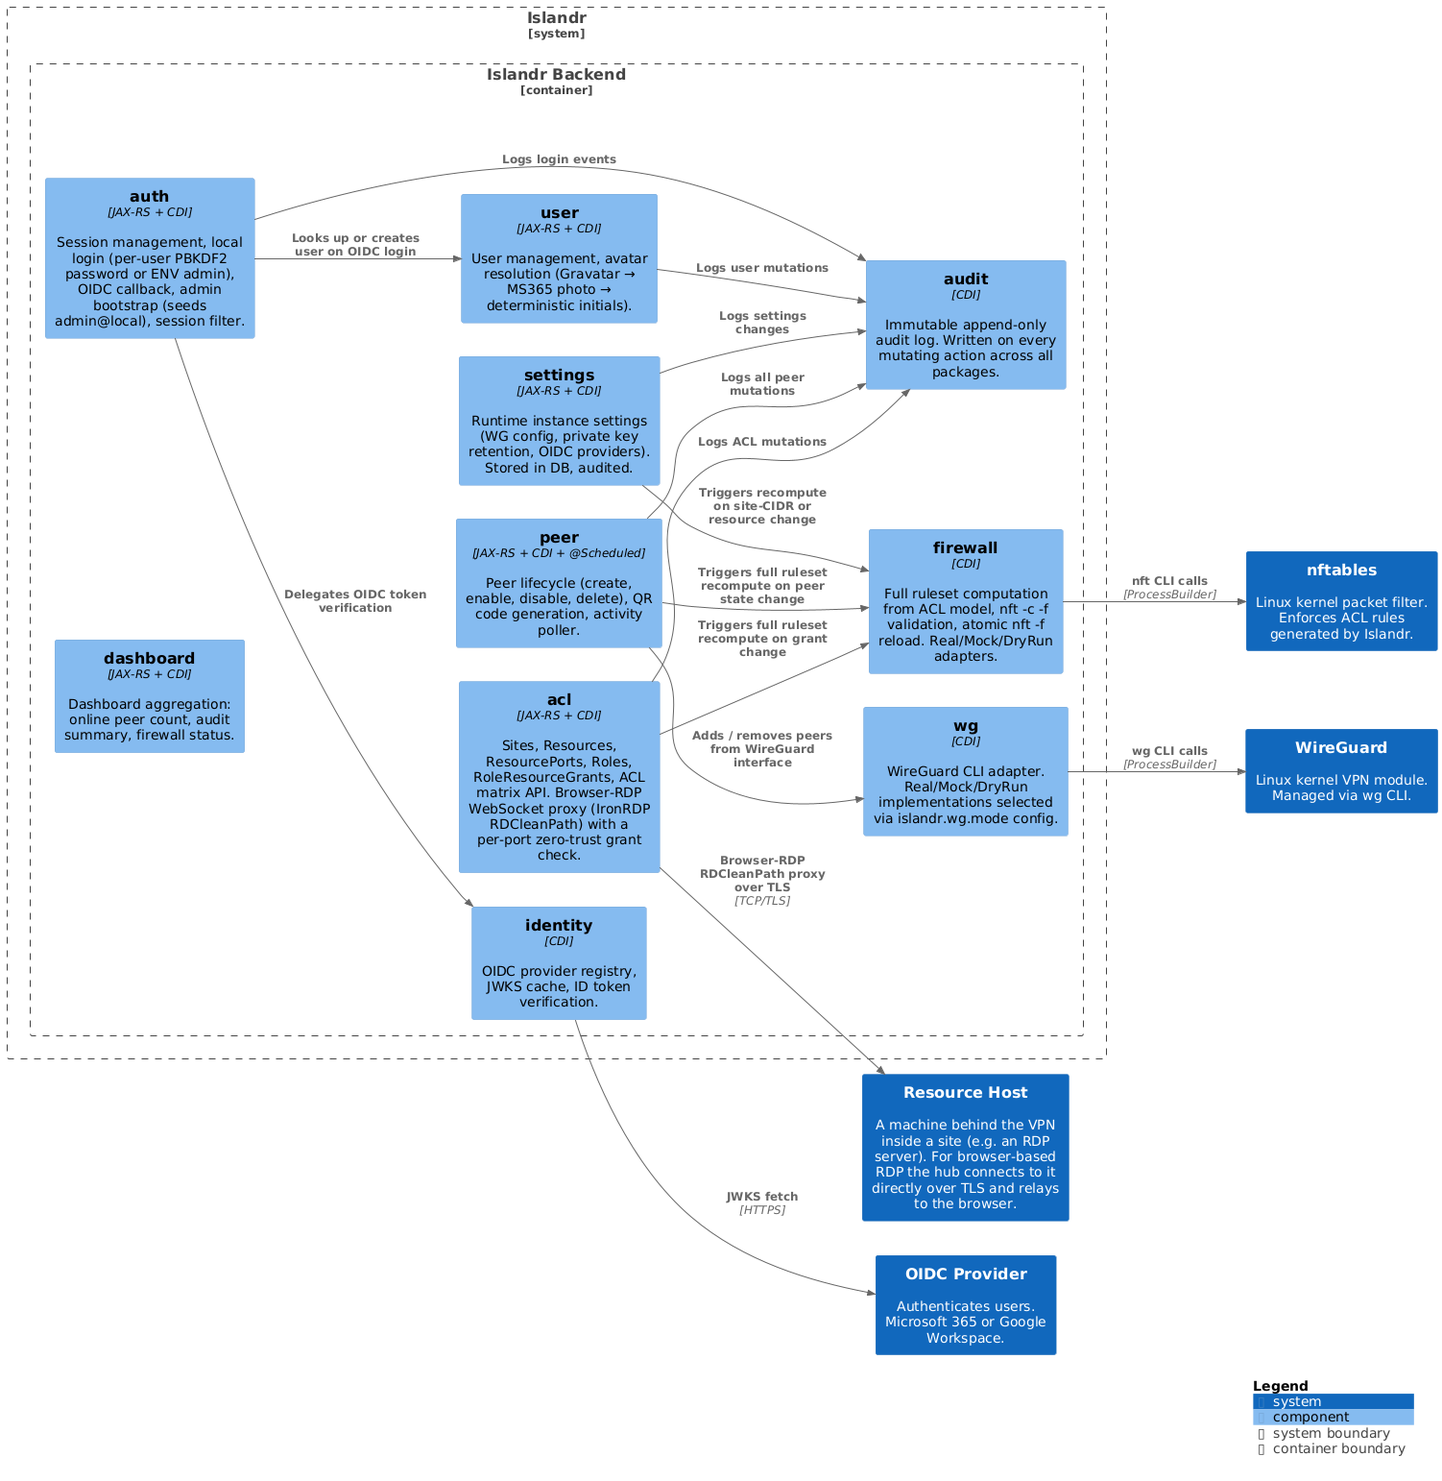
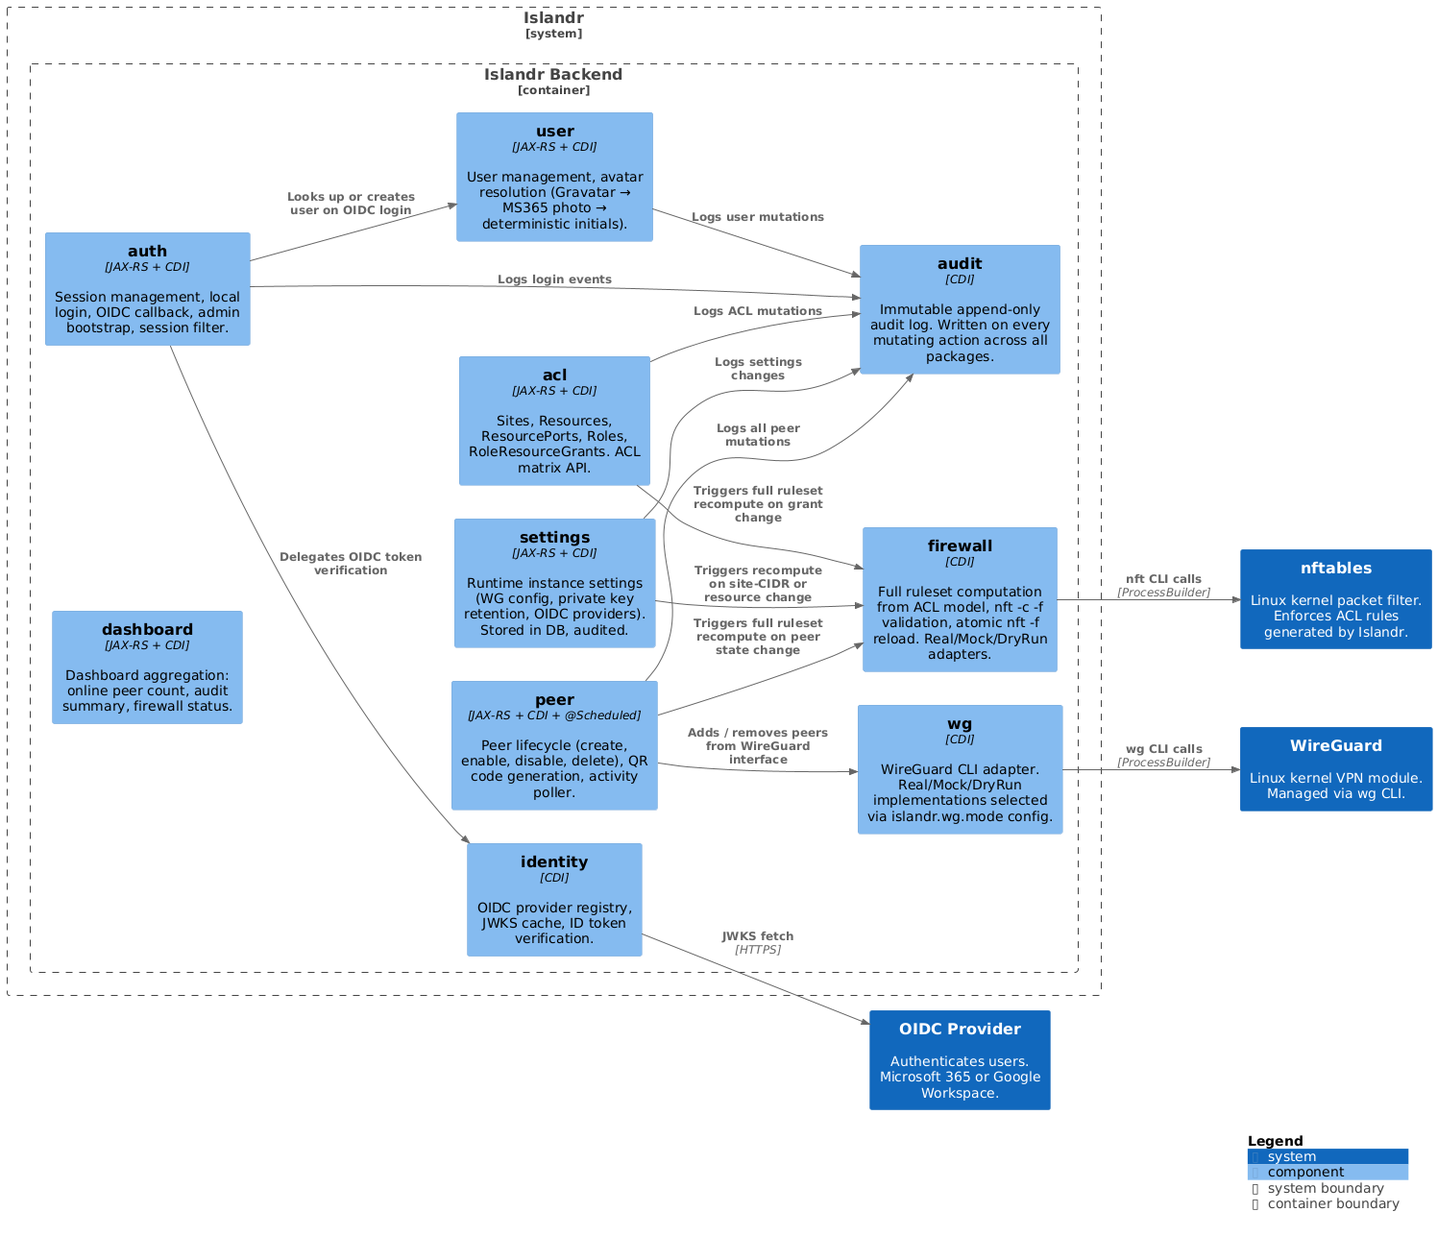
feat(rdp): browser-RDP end-to-end, autofill + reveal; scope C4 deployment views (0.10.0)
Squash of release/0.10.0 into main for the 0.10.0 release.

- rc.8: browser-RDP end-to-end, password-manager autofill, password reveal
- docs(arch): scope C4 deployment views to islandr so the C4 site renders them

diff --git a/src/main/resources/META-INF/resources/js/views/MyAccessView.js b/src/main/resources/META-INF/resources/js/views/MyAccessView.js
@@ -54,6 +54,7 @@ export default defineComponent({
       ironRdpEnabled: false,   // gates the "open in browser" button; comes from /my-resources
       rdpDialog: null,
       rdpCreds: { username: "", password: "", domain: "" },
+      rdpShowPassword: false,
       rdpOverlay: null,
       rdpModule: null,
       rdpActiveSession: null,
@@ -412,9 +413,17 @@ export default defineComponent({
 
     openRdpDialog(resource, port) {
       this.rdpDialog = { resource, port };
+      this.rdpShowPassword = false;
       this.rdpError = "";
     },
     closeRdpDialog() { this.rdpDialog = null; },
+
+    // A per-resource URI the user can store in their password manager. Built on the
+    // real islandr origin (which KeePassXC / Bitwarden match on) with the resource
+    // name in the route, so each RDP resource maps to a distinct, named vault entry.
+    rdpMatchUri(resource) {
+      return window.location.origin + "/#/my-access/" + encodeURIComponent(resource.name);
+    },
 
     async connectRdpInBrowser() {
       const { resource, port } = this.rdpDialog;
@@ -446,9 +455,20 @@ export default defineComponent({
         const { SessionBuilder, DesktopSize } = this.rdpModule;
         let b = new SessionBuilder()
           .proxyAddress(proxyUrl)
+          // The WASM client requires a non-empty auth token (RDCleanPath / Devolutions
+          // Gateway convention — normally a JWT). Our proxy does NOT use it: it
+          // authenticates via the session cookie on the WS handshake plus the per-port
+          // grant check (RdpProxyEndpoint). A placeholder just satisfies the client so
+          // connect() proceeds instead of throwing "auth_token missing".
+          .authToken("islandr")
           .destination(`${resource.ip}:${port.port}`)
           .renderCanvas(canvas)
-          .desktopSize(new DesktopSize(w, h));
+          .desktopSize(new DesktopSize(w, h))
+          // connect() requires a cursor-style callback + its context. The WASM hands
+          // us a ready-to-use CSS cursor value; apply it to the canvas. Context is the
+          // canvas itself (matches the IronRDP web reference client).
+          .setCursorStyleCallback((style) => { canvas.style.cursor = style || "default"; })
+          .setCursorStyleCallbackContext(canvas);
 
         if (this.rdpCreds.username) b = b.username(this.rdpCreds.username);
         if (this.rdpCreds.password) b = b.password(this.rdpCreds.password);
@@ -463,20 +483,80 @@ export default defineComponent({
 
         if (this.rdpOverlay) this.rdpStatus = "disconnected";
       } catch (e) {
+        // Surface the real error + stack in the browser console — the failure is
+        // otherwise invisible (a connect() failure before the WebSocket opens
+        // never reaches the server log). Helps tell a client-side (WASM/canvas)
+        // failure from a proxy/handshake one.
+        const iron = this.decodeIronError(e);
+        console.error("Browser-RDP failed:", iron || e, e && e.stack);
+        // kind() alone (esp. General) is not enough — backtrace() carries the real
+        // underlying message. Log it on its own line so it is readable, uncollapsed.
+        if (iron && iron.backtrace) console.error("IronError backtrace:\n" + iron.backtrace);
         if (this.rdpOverlay) {
           const reached = this.rdpStatus === "connected";
           this.rdpStatus = "error";
-          this.rdpError = this.rdpErrorMessage(e, reached);
+          this.rdpError = this.rdpErrorMessage(e, reached, iron);
         }
       }
     },
 
-    // Turn the WASM client's thrown value into a readable message. connect()
-    // fails before the RDP session starts (reached=false) — almost always the
-    // proxy could not reach/handshake the target; the real reason is in the
-    // server log (RdpProxyEndpoint). A failure after "connected" is an in-session
-    // error. Never render a bare object as "[object Object]".
-    rdpErrorMessage(e, reached) {
+    // IronError (the WASM client's thrown type) is an opaque wasm-bindgen handle
+    // — it renders as {__wbg_ptr:…} and has no .message. But it exposes kind(),
+    // backtrace(), and rdcleanpathDetails() (HTTP status / TLS alert / WSA code).
+    // Pull those out so the real reason is visible instead of a bare pointer.
+    decodeIronError(e) {
+      if (!e || typeof e.kind !== "function") return null;
+      const KINDS = {
+        0: "Allgemeiner Fehler",
+        1: "Falsches Passwort",
+        2: "Anmeldung am Host fehlgeschlagen",
+        3: "Zugriff verweigert (Server)",
+        4: "Verbindungsaufbau fehlgeschlagen (RDCleanPath)",
+        5: "Verbindung zum Proxy fehlgeschlagen",
+        6: "Protokoll-Aushandlung fehlgeschlagen",
+      };
+      const TLS = {
+        40: "Handshake-Fehler", 42: "Ungültiges Zertifikat", 45: "Zertifikat abgelaufen",
+        48: "Unbekannte CA (selbstsigniert)", 112: "Servername nicht erkannt",
+      };
+      const WSA = {
+        10013: "Zugriff verweigert (WSAEACCES)", 10060: "Zeitüberschreitung (WSAETIMEDOUT)",
+        10061: "Verbindung abgelehnt (WSAECONNREFUSED)", 10051: "Netz nicht erreichbar (WSAENETUNREACH)",
+        10065: "Host nicht erreichbar (WSAEHOSTUNREACH)",
+      };
+      const out = {};
+      try { out.kind = e.kind(); out.kindLabel = KINDS[out.kind] || ("Kind " + out.kind); } catch {}
+      try { out.backtrace = e.backtrace(); } catch {}
+      try {
+        const d = typeof e.rdcleanpathDetails === "function" ? e.rdcleanpathDetails() : undefined;
+        if (d) {
+          if (d.httpStatusCode !== undefined) out.http = d.httpStatusCode;
+          if (d.tlsAlertCode !== undefined) { out.tlsAlert = d.tlsAlertCode; out.tlsAlertLabel = TLS[d.tlsAlertCode]; }
+          if (d.wsaErrorCode !== undefined) { out.wsa = d.wsaErrorCode; out.wsaLabel = WSA[d.wsaErrorCode]; }
+          try { d.free(); } catch {}
+        }
+      } catch {}
+      return out;
+    },
+
+    // Turn the WASM client's thrown value into a readable message. A structured
+    // IronError (iron) gives the concrete reason (kind + TLS/WSA/HTTP detail);
+    // otherwise fall back to message/toString. reached=false means connect()
+    // failed before the RDP session started. Never render "[object Object]".
+    rdpErrorMessage(e, reached, iron) {
+      if (iron && iron.kindLabel) {
+        const bits = [iron.kindLabel];
+        if (iron.tlsAlert !== undefined) bits.push("TLS-Alert " + iron.tlsAlert + (iron.tlsAlertLabel ? " (" + iron.tlsAlertLabel + ")" : ""));
+        if (iron.wsa !== undefined) bits.push("Socket-Fehler " + iron.wsa + (iron.wsaLabel ? " (" + iron.wsaLabel + ")" : ""));
+        if (iron.http !== undefined) bits.push("HTTP " + iron.http);
+        // For General (kind 0) with no coded detail, the backtrace is the only real
+        // signal — surface its first line so the user isn't left with a bare label.
+        if (iron.kind === 0 && iron.tlsAlert === undefined && iron.wsa === undefined && iron.http === undefined && iron.backtrace) {
+          const first = String(iron.backtrace).split("\n").map(s => s.trim()).filter(Boolean)[0];
+          if (first) bits.push(first);
+        }
+        return "Verbindung zum RDP-Server fehlgeschlagen: " + bits.join(" — ") + ".";
+      }
       let detail = "";
       if (e != null) {
         if (typeof e === "string") detail = e;
@@ -1048,7 +1128,7 @@ export default defineComponent({
       </div>
     </div>
     <!-- IronRDP credential dialog -->
-    <div v-if="rdpDialog" class="modal-overlay" @click.self="closeRdpDialog">
+    <div v-if="rdpDialog" class="modal-backdrop" @click.self="closeRdpDialog">
       <div class="modal" style="max-width: 400px">
         <div class="modal-header">
           <h3 style="margin:0; font-size: var(--text-md)">Im Browser öffnen</h3>
@@ -1062,20 +1142,40 @@ export default defineComponent({
           <form id="rdp-cred-form" @submit.prevent="connectRdpInBrowser">
             <div class="form-group">
               <label class="label" for="rdpUser">Benutzername</label>
-              <input id="rdpUser" class="input" v-model="rdpCreds.username"
+              <input id="rdpUser" name="username" class="input" v-model="rdpCreds.username"
                      type="text" autocomplete="username" placeholder="z.B. Administrator" />
             </div>
             <div class="form-group">
               <label class="label" for="rdpPass">Passwort</label>
-              <input id="rdpPass" class="input" v-model="rdpCreds.password"
-                     type="password" autocomplete="current-password" />
+              <div class="input-reveal">
+                <input id="rdpPass" name="password" class="input" v-model="rdpCreds.password"
+                       :type="rdpShowPassword ? 'text' : 'password'" autocomplete="current-password" />
+                <button type="button" class="input-reveal-btn" @click="rdpShowPassword = !rdpShowPassword"
+                        :aria-label="rdpShowPassword ? 'Passwort verbergen' : 'Passwort anzeigen'"
+                        :title="rdpShowPassword ? 'Passwort verbergen' : 'Passwort anzeigen'">
+                  <Icon :name="rdpShowPassword ? 'eye-off' : 'eye'" :size="16" />
+                </button>
+              </div>
             </div>
             <div class="form-group">
               <label class="label" for="rdpDomain">Domäne <span class="muted">(optional)</span></label>
-              <input id="rdpDomain" class="input" v-model="rdpCreds.domain"
+              <input id="rdpDomain" name="domain" class="input" v-model="rdpCreds.domain"
                      type="text" autocomplete="off" placeholder="z.B. FIRMA" />
             </div>
           </form>
+          <!-- Copyable per-resource URI for the user's password manager (KeePassXC /
+               Bitwarden). Autofill still keys on the islandr origin; this URI carries
+               the resource name so the right vault entry is easy to find/organise. -->
+          <div class="field" style="margin-top: var(--space-3)">
+            <label class="label muted" style="font-size: var(--text-xs)">URI für Passwort-Manager (KeePassXC / Bitwarden)</label>
+            <div style="display: flex; gap: var(--space-2); align-items: center">
+              <code class="mono" style="flex: 1; font-size: var(--text-xs); overflow-x: auto; white-space: nowrap">{{ rdpMatchUri(rdpDialog.resource) }}</code>
+              <button type="button" class="btn btn-ghost btn-sm"
+                      @click="copyCmd(rdpMatchUri(rdpDialog.resource), 'rdpuri')">
+                {{ copiedCmd === 'rdpuri' ? 'Kopiert' : 'Kopieren' }}
+              </button>
+            </div>
+          </div>
         </div>
         <div class="modal-footer">
           <button class="btn btn-ghost" @click="closeRdpDialog">Abbrechen</button>

diff --git a/src/main/resources/META-INF/resources/js/views/LoginView.js b/src/main/resources/META-INF/resources/js/views/LoginView.js
@@ -1,6 +1,7 @@
 import { defineComponent, ref } from "vue";
 import { auth } from "/js/app.js";
 import { t, setLocale, locale } from "/js/i18n.js";
+import { Icon } from "/js/Icons.js";
 
 // Login-Card mit Provider-Hierarchie:
 //   1. Aktivierter OIDC-Provider (max. einer) erscheint als prominenter Primär-Button oben.
@@ -11,10 +12,12 @@ import { t, setLocale, locale } from "/js/i18n.js";
 //      (das ist dann der einzige Weg rein).
 export default defineComponent({
   name: "LoginView",
+  components: { Icon },
   data() {
     return {
       username: "admin",
       password: "",
+      showPassword: false,
       loading: false,
       error: null,
       providers: { microsoft: false, google: false },
@@ -158,14 +161,21 @@ export default defineComponent({
 
             <div class="field">
               <label for="username">{{ t('login.user') }}</label>
-              <input id="username" class="input" type="text" v-model="username"
+              <input id="username" name="username" class="input" type="text" v-model="username"
                      autocomplete="username" required />
             </div>
 
             <div class="field">
               <label for="password">{{ t('login.password') }}</label>
-              <input id="password" class="input" type="password" v-model="password"
-                     autocomplete="current-password" required />
+              <div class="input-reveal">
+                <input id="password" name="password" class="input" :type="showPassword ? 'text' : 'password'"
+                       v-model="password" autocomplete="current-password" required />
+                <button type="button" class="input-reveal-btn" @click="showPassword = !showPassword"
+                        :aria-label="showPassword ? 'Passwort verbergen' : 'Passwort anzeigen'"
+                        :title="showPassword ? 'Passwort verbergen' : 'Passwort anzeigen'">
+                  <Icon :name="showPassword ? 'eye-off' : 'eye'" :size="16" />
+                </button>
+              </div>
             </div>
 
             <button type="submit"

diff --git a/src/main/resources/META-INF/resources/js/Icons.js b/src/main/resources/META-INF/resources/js/Icons.js
@@ -326,6 +326,20 @@ export const PATHS = {
     '<path d="M12.22 2h-.44a2 2 0 0 0-2 2v.18a2 2 0 0 1-1 1.73l-.43.25a2 2 0 0 1-2 0l-.15-.08a2 2 0 0 0-2.73.73l-.22.38a2 2 0 0 0 .73 2.73l.15.1a2 2 0 0 1 1 1.72v.51a2 2 0 0 1-1 1.74l-.15.09a2 2 0 0 0-.73 2.73l.22.38a2 2 0 0 0 2.73.73l.15-.08a2 2 0 0 1 2 0l.43.25a2 2 0 0 1 1 1.73V20a2 2 0 0 0 2 2h.44a2 2 0 0 0 2-2v-.18a2 2 0 0 1 1-1.73l.43-.25a2 2 0 0 1 2 0l.15.08a2 2 0 0 0 2.73-.73l.22-.39a2 2 0 0 0-.73-2.73l-.15-.08a2 2 0 0 1-1-1.74v-.5a2 2 0 0 1 1-1.74l.15-.09a2 2 0 0 0 .73-2.73l-.22-.38a2 2 0 0 0-2.73-.73l-.15.08a2 2 0 0 1-2 0l-.43-.25a2 2 0 0 1-1-1.73V4a2 2 0 0 0-2-2z"/>',
     '<circle cx="12" cy="12" r="3"/>',
   ],
+
+  // eye — Passwort im Klartext anzeigen (Lucide MIT)
+  eye: [
+    '<path d="M2 12s3-7 10-7 10 7 10 7-3 7-10 7-10-7-10-7Z"/>',
+    '<circle cx="12" cy="12" r="3"/>',
+  ],
+
+  // eye-off — Passwort wieder maskieren (Lucide MIT)
+  "eye-off": [
+    '<path d="M9.88 9.88a3 3 0 1 0 4.24 4.24"/>',
+    '<path d="M10.73 5.08A10.43 10.43 0 0 1 12 5c7 0 10 7 10 7a13.16 13.16 0 0 1-1.67 2.68"/>',
+    '<path d="M6.61 6.61A13.526 13.526 0 0 0 2 12s3 7 10 7a9.74 9.74 0 0 0 5.39-1.61"/>',
+    '<line x1="2" x2="22" y1="2" y2="22"/>',
+  ],
 };
 
 export const Icon = defineComponent({

diff --git a/src/main/resources/META-INF/resources/css/components.css b/src/main/resources/META-INF/resources/css/components.css
@@ -64,6 +64,21 @@
 .input.is-invalid { border-color: var(--danger-solid); }
 .input.is-invalid:focus { box-shadow: 0 0 0 3px var(--danger-bg); }
 
+/* Password field with a reveal toggle. The eye button sits inside the input on
+   the right; the input reserves padding so text never runs under it. */
+.input-reveal { position: relative; display: block; }
+.input-reveal .input { width: 100%; padding-right: calc(var(--space-3) + 26px); }
+.input-reveal-btn {
+  position: absolute; right: 6px; top: 50%; transform: translateY(-50%);
+  display: inline-flex; align-items: center; justify-content: center;
+  width: 28px; height: 28px; padding: 0;
+  background: none; border: none; border-radius: var(--radius-sm);
+  color: var(--fg3); cursor: pointer;
+  transition: color var(--dur) var(--ease-standard), background var(--dur) var(--ease-standard);
+}
+.input-reveal-btn:hover { color: var(--fg1); background: var(--surface-3); }
+.input-reveal-btn:focus-visible { outline: none; box-shadow: 0 0 0 3px var(--accent-soft-bg); }
+
 /* ---- Toggle -------------------------------------------------------------- */
 .toggle { position: relative; display: inline-flex; width: 38px; height: 22px; flex: none; }
 .toggle input { opacity: 0; width: 0; height: 0; }

diff --git a/src/main/resources/META-INF/resources/css/app.css b/src/main/resources/META-INF/resources/css/app.css
@@ -1699,7 +1699,11 @@ body {
   flex: 1;
   width: 100%;
   display: block;
-  cursor: none;
+  /* Baseline cursor. IronRDP delivers the remote pointer via the WASM
+     setCursorStyleCallback (which sets an inline cursor on this element), not by
+     compositing it into the framebuffer. `default` here means an invalid/empty
+     callback value still leaves a visible cursor instead of hiding it. */
+  cursor: default;
   outline: none;
 }
 

diff --git a/README.md b/README.md
@@ -247,7 +247,7 @@ islandr/
 - Admin toggle to disable self-service peer creation (stricter environments)
 - Protocol quicklaunch on granted resources:
   - **HTTP/HTTPS** — opens directly in the browser; optional per-port path prefix (e.g. `/admin`) so multi-app hosts work without a dedicated port per app
-  - **RDP** — `.rdp` file download (Windows/macOS) + `rdp://` URI (Linux/Remmina) + **browser-based RDP** via IronRDP WASM (no client install); `web-only` access mode blocks direct WireGuard port access so users are forced through the browser proxy; per-port clipboard and file-transfer toggles; global enable toggle in Settings
+  - **RDP** — `.rdp` file download (Windows/macOS) + `rdp://` URI (Linux/Remmina) + **browser-based RDP** via IronRDP WASM (no client install); `web-only` access mode blocks direct WireGuard port access so users are forced through the browser proxy; per-port clipboard and file-transfer toggles; password-manager autofill + show/hide toggle on the credential dialog; global enable toggle in Settings
   - **VNC** — `vnc://` URI link (RFC 7869; opens Remmina, GNOME Connections, RealVNC)
   - **SSH** — `ssh://` URI (macOS Terminal, Linux terminal emulators)
   - **SFTP** — `sftp://` URI (Nautilus, Dolphin file manager)
@@ -272,6 +272,7 @@ Only the changes that matter if you actually use it — see the [GitHub releases
 
 **0.10.0**
 - **Browser-based RDP** — open a granted RDP resource straight from the self-service portal, with no local client to install. An IronRDP WASM client runs in the browser and the hub proxies the connection over a WebSocket, gated by the resource ACL (the target is derived from the database, not the request). Per-port clipboard and file-transfer toggles; a `web-only` access mode blocks the direct WireGuard port so users are forced through the auditable browser proxy. Off by default — enable it globally in Settings.
+- **Password-manager-friendly credentials** — the local login form and the browser-RDP credential dialog use proper form and field semantics (`name` + `autocomplete` + `type`), so KeePassXC, Bitwarden and the browser's own manager detect and autofill them. The RDP dialog adds a copyable per-resource URI (keep one vault entry per host) and a show/hide toggle on the password field.
 - **Local users with passwords** — you no longer need an external IdP to hand out logins. An admin sets a per-user password (PBKDF2-hashed, never stored or returned in plaintext) and that user signs in with email + password, alongside or instead of Microsoft/Google OIDC.
 - **Usable bootstrap admin** — a fresh install seeds an `admin@local` user and binds the `ISLANDR_ADMIN_PASSWORD` login to it, so you can immediately own a peer and assign yourself roles instead of logging in as a rights-less admin.
 - **Onboarding polish** — the port form pre-fills the default port per protocol (RDP 3389, SSH 22, HTTPS 443, …); a peer can be created with no users yet as a site gateway (the client type is disabled with a hint to add a user first); networks hint when there is no gateway peer to pick; the ACL matrix lets you grant "all ports" on single-port resources too; and the dashboard shows your configured hub location name instead of a generic "Hub".

diff --git a/docs/prd.md b/docs/prd.md
@@ -104,6 +104,8 @@ Format: EARS (Easy Approach to Requirements Syntax) where it fits cleanly; plain
 - **F-16** — End users shall authenticate via the configured identity provider (OIDC: Microsoft 365 / Google) or, where no OIDC provider is active, via local password. The Portal shall show only the user's own devices and own access list — never another user's data.
 - **F-17** — End users shall be able to add a new device through a 3-step flow: pick platform → see QR + `.conf` (one-time-secret pattern) → wait for first handshake → success.
 - **F-18** — The Portal shall describe accessible resources in plain language, grouped by site. Each line shows resource name, an icon for the (UI-level) protocol label, and a human description — never raw CIDR. Example: "Terminal-01 — RDP", "NAS-Backup — SFTP".
+- **F-20** — Where an admin has enabled browser-based RDP, an end user shall be able to open an RDP session to a resource they hold a grant for directly in the browser, without a native client. The backend relays the session over an authenticated WebSocket proxy (IronRDP RDCleanPath over TLS) and enforces the same per-port grant check as the firewall. The user enters RDP credentials in a dialog; those credentials are forwarded to the target host only and are never persisted by Islandr.
+- **F-20a** — The local login form and the browser-RDP credential dialog shall be structured so browser password managers (e.g. KeePassXC, Bitwarden) can detect and autofill them: a `<form>` element with `name` and `autocomplete` attributes (`username` / `current-password`) and `type="password"` on the relevant fields. The RDP dialog shall additionally offer a copyable per-resource URI, built on the Islandr origin with the resource name in the route (`…/#/my-access/<resource>`), so a user can keep one distinct vault entry per RDP resource. Autofill matching is at the Islandr-origin level; the URI aids identification and is not a security control.
 
 ### Authorisation
 - **F-19** — Every user has exactly one system role: `ADMIN` or `END_USER` (see [domain model §7](#7-domain-model)). `ADMIN` reaches the Admin Console; `END_USER` reaches the Self-Service Portal only. System role is enforced server-side on every API call, not only in the UI.
